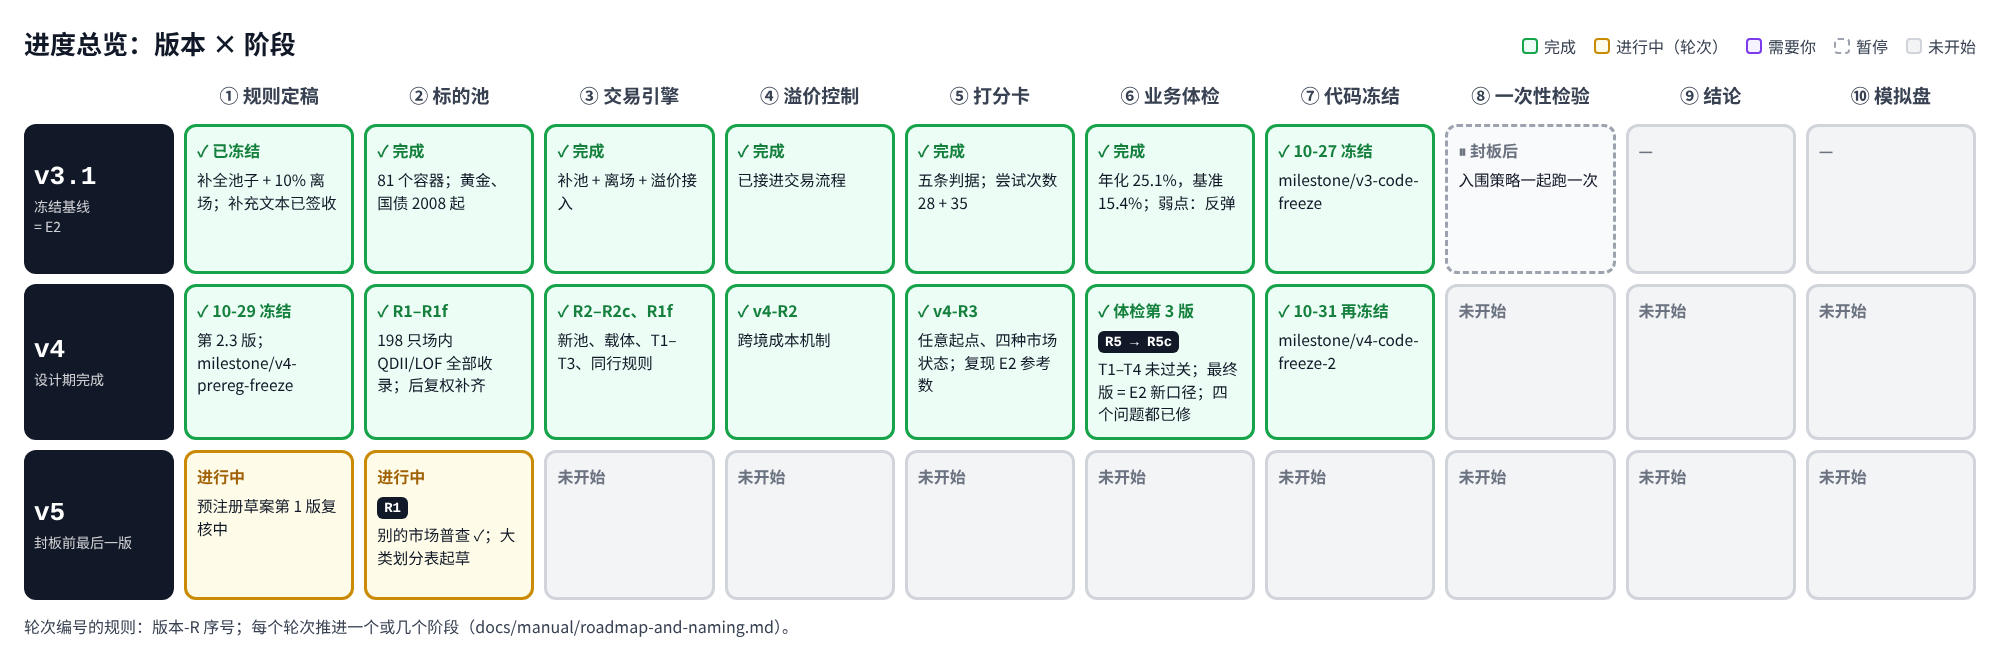
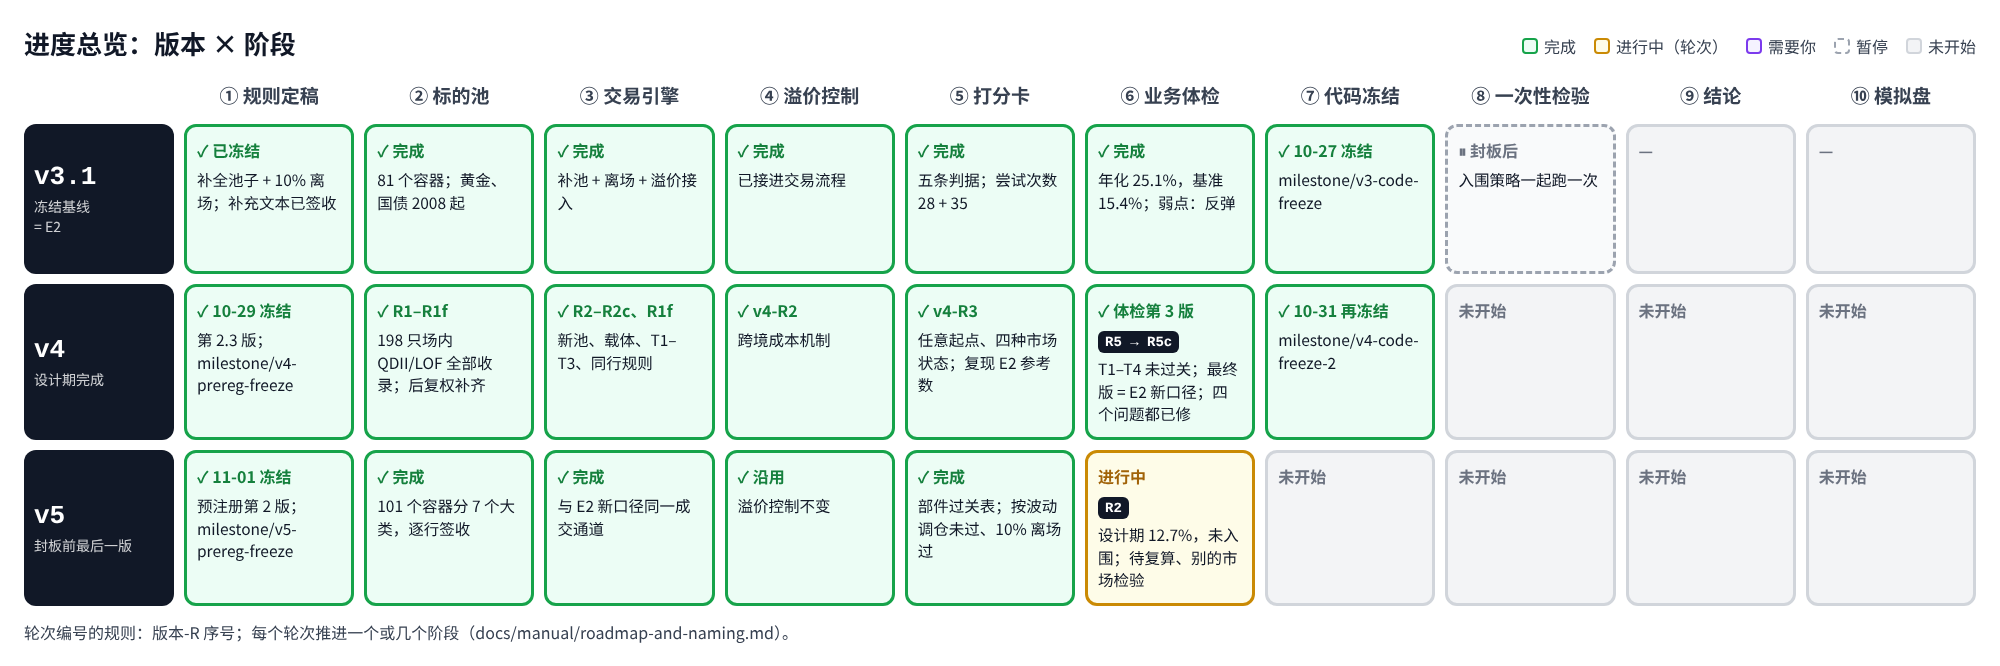
看板与 v5 备忘第 9 版：补上 v5 设计期结果（未入围）、预判对照、进度图
Claude-Session: https://claude.ai/code/session_01PmXaEwvnhMrSzwWPeiEpbL

diff --git a/docs/owner/v5-research-memo.md b/docs/owner/v5-research-memo.md
@@ -4,7 +4,7 @@
 
 - Project: ETF_Rotation_Quant
 - Document type: research
-- Status: active（第 8.2 版；预注册已批准、待冻结，还没有跑任何回测）
+- Status: active（第 9 版；设计期已跑完，v5 未入围，待 Reviewer 复算）
 - Owner: L. Loric
 - Maintainer: Orchestrator
 - Date: 2026-11-01
@@ -15,11 +15,35 @@
 
 **项目愿景**　在动态周期内，从多类资产里选出 Top N 强势 ETF 轮动持有，获得超额收益、稳定跑赢被动基准，同时把回撤控制住。
 
-| 现状 | 核心想法 | 需要你 |
+| 现状 | 结论 | 需要你 |
 | --- | --- | --- |
-| v5 预注册复核通过，**你已批准 4 处选择（D29）**。大类表签收后冻结，然后开跑设计期。 | v4 证明了**“该不该持有”有信号，“挑哪一只”几乎没有**。v5 把力气放在前者，并且只再加两个部件。 | **暂时不需要。**期望线封板前再定。 |
+| **设计期跑完，v5 没有入围**。待 Reviewer 复算、别的市场检验，然后封板。 | v5 指数池年化 **12.7%**，没有赢过 E2 新口径的 **24.9%**。原因在规则设计：牛市里分散了火力，熊市里放大了误判。 | **暂时不需要。**期望线封板前定。 |
 
-## 1. 为什么换：信号在“该不该持有”，不在“挑哪一只”
+## 1. 结果：v5 没有赢过 E2 新口径，不入围
+
+> **指数池年化 12.7%，比 E2 新口径少 12 个百分点，回撤还更深；只有在能买的少的可交易池里更好。**
+
+| 设计期 2006–2015 | E2 新口径 | v5 最终版 | 基准 | A1 |
+| --- | --- | --- | --- | --- |
+| **指数池 年化** | 24.9% | **12.7%** | 15.6% | 27.0% |
+| **指数池 最大回撤** | −35% | **−40%** | −66% | −43% |
+| **可交易池 年化** | 8.7% | **17.4%** | 15.6% | 23.7% |
+
+v5 最终版 = 起点 + 10% 离场。绿、橙相对 E2 新口径。入围要求（D29）：收益两段都赢；或两段都不少于 2 个百分点、回撤浅 5 个百分点以上。实际前五年少约 20 个百分点，两条都不满足。数字待 Reviewer 独立复算。
+
+| 部件 | 结果 | 为什么 |
+| --- | --- | --- |
+| **按波动调仓** | **没过** | 前五年更差，牛市少赚 29 个百分点 |
+| **10% 离场** | **过关** | 两段都更好，回调里少亏 |
+
+### 为什么输：两处都是我设计的规则，不是程序错误
+
+- 牛市里分散了火力 “跑赢现金的大类平分”让 2006–07 年 A 股平均只占 40%，其余分给同时在涨的港股、美股。两年 **+61%、+72%**，E2 几乎满仓 A 股，是 +106%、+156%。
+- 熊市里放大了误判 “只有一类跑赢就全放它身上”：2008 年一半的时间总有某一类短期跑赢现金，那部分钱就全押上去。2008 年 **−34%**、2011 年 −26%，E2 是 −23%、−10%。v4 时“填满空位更差”的反面证据，说的就是这个。
+
+稳健性对照里，“只持最强的一类”（A1 式）两段都比 v5 好得多：要集中，就集中在最强的那一个，而不是分给所有在涨的。按规则它只是报告项，不能替换 v5，留作封板后 v6 的线索。
+
+## 2. 为什么换：信号在“该不该持有”，不在“挑哪一只”
 
 > **E2 把复杂度花在了挑选上，而挑选恰恰是证据最弱的一层。**
 
@@ -48,7 +72,7 @@
 
 </details>
 
-## 2. 怎么做：两层加一个防守位，只再加两个部件
+## 3. 怎么做：两层加一个防守位，只再加两个部件
 
 > **先判断要不要冒险；冒险就在跑赢现金的大类里各买最强的一只；不冒险就放国债或黄金。**
 1. **该不该冒险**：A 股、港股、美股、其他海外、商品，各看自己是否跑赢现金。
@@ -65,7 +89,7 @@
 
 **小仓试错为什么不做**：依据只有 2008 年初、2015 年 7 月两段，而且一定会让真反弹回场更慢，这正是你最在意的弱点。**让赢家跑**加大的是“挑哪一只”的押注。新增自由度共 4 个，在项目上限内。现金的载体可以是货币基金或国债逆回购（逆回购算现金，不算国债）。
 
-## 3. 怎么判：三道关，过不了就不要
+## 4. 怎么判：三道关，过不了就不要
 
 > **每加一个部件和上一版比；最后和 E2 新口径比；再到别的市场验一次。**
 
@@ -77,29 +101,29 @@
 
 加粗的是这次新加的条件，针对“修一处、坏一处”。过关只看指数池：2016 年以后能买的品种多，指数池更接近未来。别的市场只用免费数据（10-31 你同意）。
 
-## 4. 跑之前的预判：大牛市少赚，回撤更浅
+## 5. 跑前预判对照：猜对三条，猜错三条
 
-> **事先写下，跑完逐条对照；猜错的地方要说清是理解错了还是代码错了。**
+> **最大的错是回撤：预计更浅，实际更深。**
 
-| 行情 | 相对 E2 新口径 | 为什么 |
-| --- | --- | --- |
-| **2006–07 A 股大牛市** | **更差** | 钱会分给同时在涨的港股、美股 |
-| **2008 熊市** | 相近或略好 | 先判断要不要冒险，退得更干净 |
-| **2009 反弹** | 相近 | 同样的四个回看期 |
-| **2010–13 震荡** | **略好** | 不再在相关的 A 股行业里来回换 |
-| **2015 急跌** | 相近 | 三周跌完，趋势规则躲不开 |
-| **可交易池** | **明显更好** | 早年能买的少时集中，不再大半拿现金 |
+| 行情 | 预判（相对 E2） | 实际 |  |
+| --- | --- | --- | --- |
+| **2006–07 A 股大牛市** | 更差 | +61%、+72% 对 +106%、+156% | **猜对** |
+| **2008 熊市** | 相近或略好 | −34% 对 −23% | **猜错** |
+| **2009 反弹** | 相近 | +50% 对 +43% | **大致对** |
+| **2010–13 震荡** | 略好 | 2012–13 更好，2011 年 −26% 对 −10% | **猜错** |
+| **2015 急跌** | 相近 | 全年 +4% 对 +15% | **猜错** |
+| **可交易池** | 明显更好 | 17.4% 对 8.7% | **猜对** |
 
-> **入围的机会**　按“收益两段都赢”，我估计不到一半；按“收益差不多、回撤更浅”，大一些。
+猜错的三条都指向同一个原因：“只有一类跑赢就全押”在下跌市里让 v5 留在场内。这是理解错了，不是代码错了。
 
-## 5. 急跌和期权：单独一条线，不挡 v5
+## 6. 急跌和期权：单独一条线，不挡 v5
 
 > **三周跌完的行情，趋势规则躲不开；真正的保护要靠期权。**
 
 - **难点**：设计期里只有 50ETF 期权 2015 年 2–12 月这十个月，其他品种 2019 年以后才上市；国内买保护划不划算，还没有证据。
 - **下一步**：一页期权研究备忘，写清合约、数据、成本，以及怎样在不碰检验段的前提下验证。
 
-## 6. 封板和之后：已定（D20、D27）
+## 7. 封板和之后：已定（D20、D27）
 
 > **v5 做完就封板，不论结果；之后的新想法当“挑战者”，和在跑的策略比。**
 - ✅ **已定** **v5 是最后一个研究版本**，做完就封板；之后只允许一次修程序错误的 v5.1。
